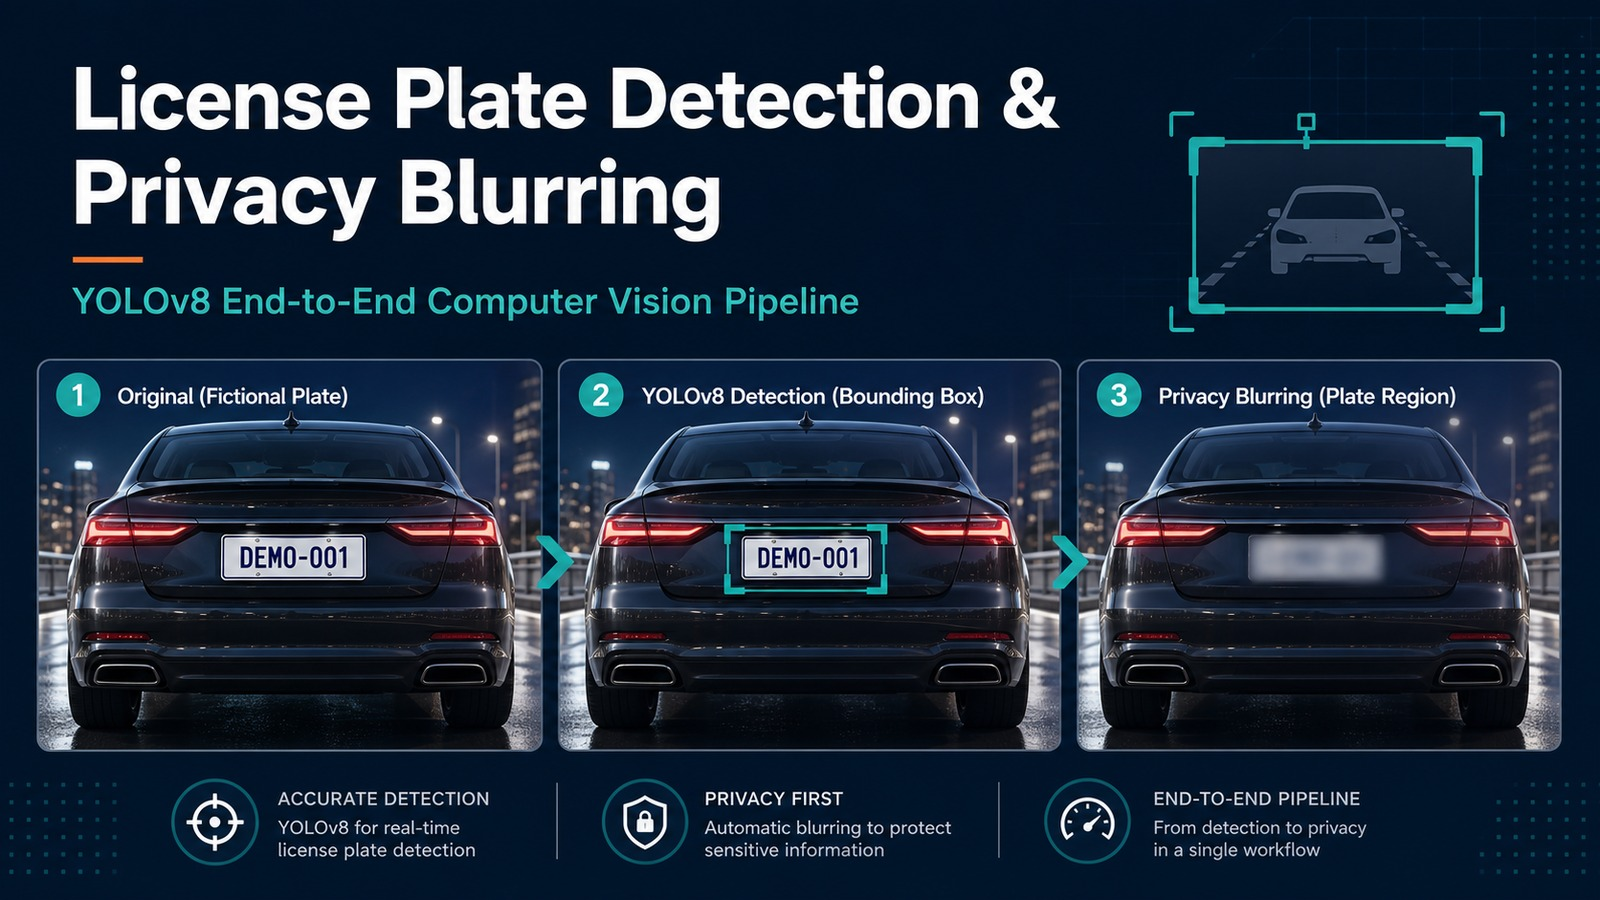
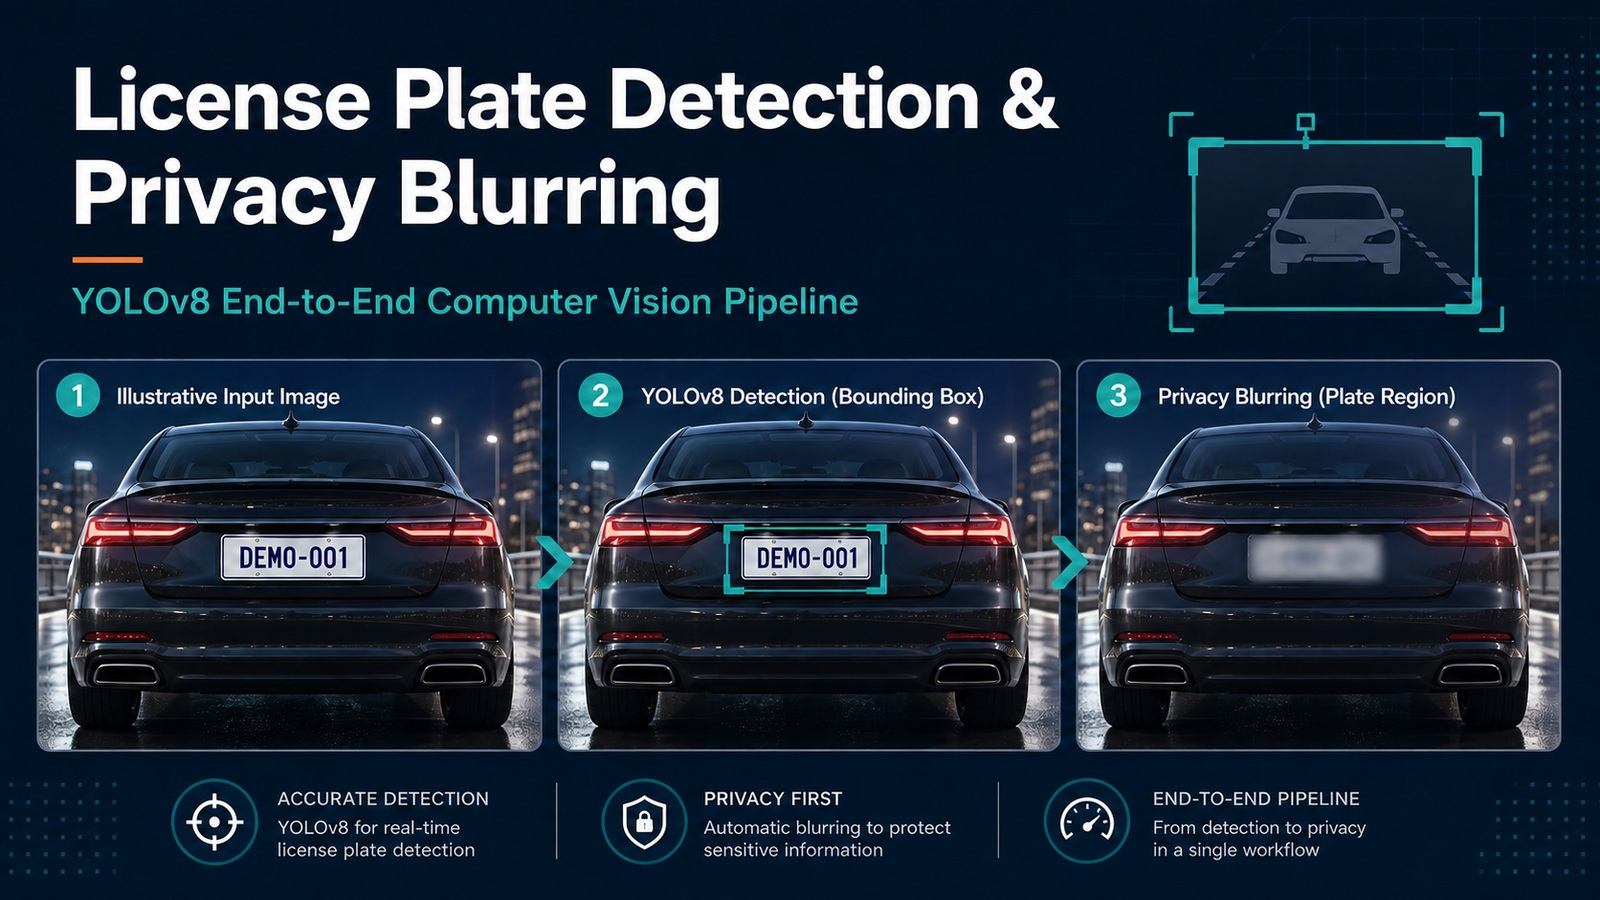
Clarify illustrative assets and data ethics

diff --git a/README.md b/README.md
@@ -252,3 +252,7 @@ are not distributed in this repository.
 
 `computer-vision` `yolov8` `deep-learning` `machine-learning` `opencv` `python`
 `privacy` `object-detection`
+
+**Data ethics note:** The visual assets shown in this README are synthetic
+illustrative examples or anonymized outputs used for educational purposes. No
+personally identifiable vehicle information is included.
